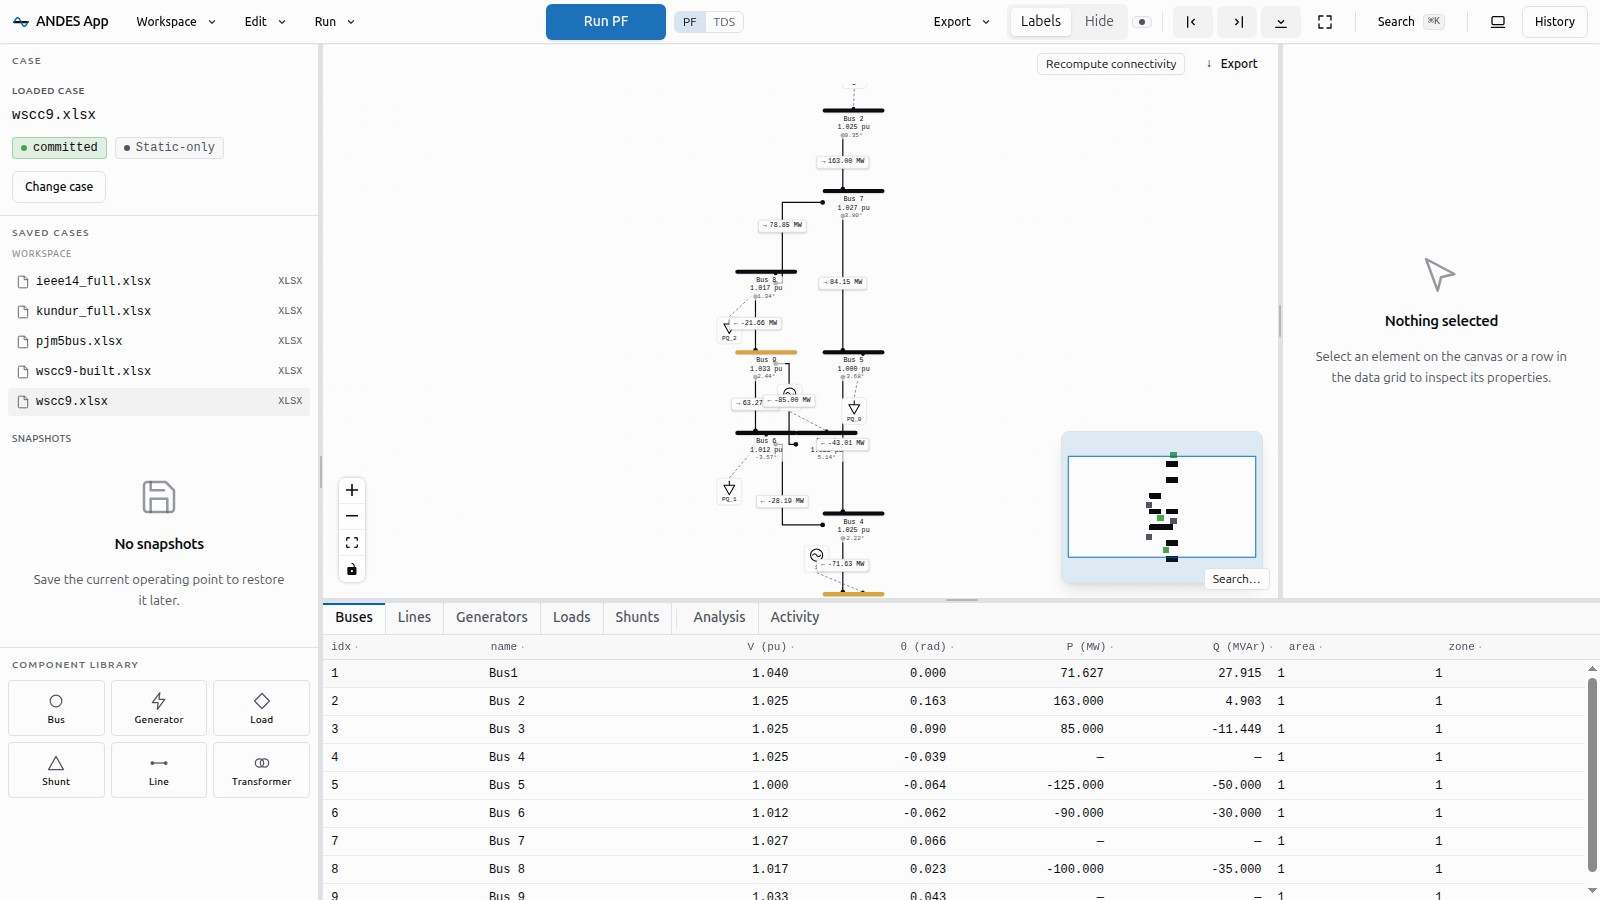
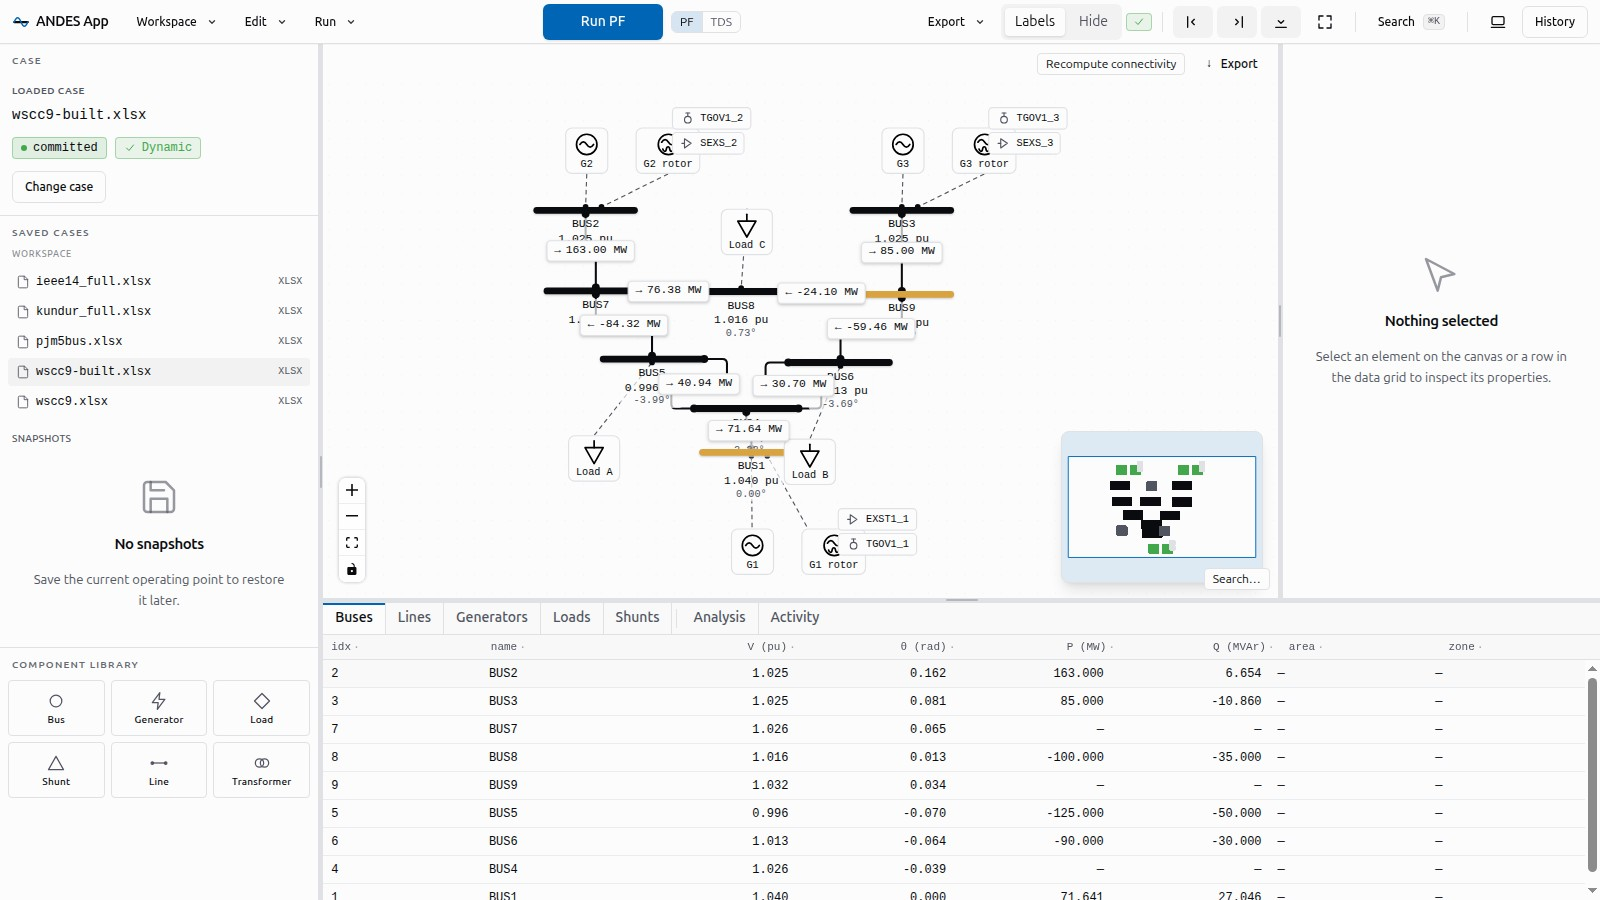
docs: production-ready README with embedded demo video + feature comparison
- Rewrite README around a getting-started-in-minutes flow: clone → install
  server → build UI → warm-cache → serve --open, with the first-run example
  cases called out so there's something to open immediately.
- Embed the showcase demo: an inline GIF (clickable → full MP4) of an agent
  building WSCC 9-bus from scratch and running every analysis, committed
  under docs/ (demo.gif + docs/demo/ieee9-agent-demo.mp4).
- Sharpen the 'why this vs ANDES alone' comparison table and add a grouped
  feature list, project layout, agent/MCP section, and an ANDES
  acknowledgement.
- Refresh the hero screenshot to the current clean one-line layout.
- CHANGELOG: note the demo/README plus this round's SLD + result-chart fixes.

diff --git a/README.md b/README.md
@@ -2,84 +2,106 @@
 
 **An interactive, web-based workbench for [ANDES](https://github.com/CURENT/andes)** — the open-source Python power-system simulator. Build, edit, simulate, and analyze power systems from your browser, with live-streaming time-domain results, an interactive single-line diagram, and a fully scriptable HTTP API designed for both humans and AI agents.
 
-ANDES App is **not a wrapper around the ANDES CLI**. It is a substrate built on the ANDES Python API that adds capabilities native ANDES does not have: interactive model building, live result streaming, session management, undo/redo parameter editing, and a machine-readable API surface for interoperability with other tools and frameworks.
+[![Built on ANDES](https://img.shields.io/badge/built%20on-CURENT%2FANDES-2563eb)](https://github.com/CURENT/andes)
+[![Python 3.12+](https://img.shields.io/badge/python-3.12%2B-3776ab)](https://www.python.org/)
+[![License: MIT](https://img.shields.io/badge/license-MIT-green)](./LICENSE)
+[![Agent-ready](https://img.shields.io/badge/agent--ready-llms.txt%20%2B%20MCP-8b5cf6)](./llms.txt)
+
+ANDES App is **not a wrapper around the ANDES CLI**. It is a substrate built on the ANDES Python API that adds capabilities native ANDES does not have: visual model building, live result streaming, session management, clone-on-write parameter editing with undo/redo, and a machine-readable API surface for interoperability with other tools and AI agents.
 
 ![ANDES App — interactive single-line diagram with a solved power flow](docs/img/hero.jpeg)
 
-## What you can do
+## See it in action
 
-| Capability | ANDES (CLI/notebook) | ANDES App |
+An AI agent builds the WSCC 9-bus system **from scratch through the real UI** — placing every bus, line, transformer, machine, exciter, and governor; laying out the one-line; saving the case to a file and reloading it; then running power flow, a three-phase fault + streaming time-domain simulation, continuation power flow, and eigenvalue analysis.
+
+[![Watch the ANDES App demo — building WSCC 9-bus and running every analysis](docs/img/demo.gif)](docs/demo/ieee9-agent-demo.mp4)
+
+▶ **[Watch the full 2-minute walkthrough (MP4)](docs/demo/ieee9-agent-demo.mp4)** — every step uses the same HTTP API any script or LLM agent can call. You can [record it yourself](#run-the-showcase-demo-yourself).
+
+## Why ANDES App?
+
+ANDES is a powerful simulation engine. ANDES App turns it into an interactive, shareable, scriptable application.
+
+| | ANDES (CLI / notebook) | **ANDES App** |
 |---|---|---|
-| Build a system from scratch | Hand-edit xlsx/raw files | Visual builder: add buses, lines, machines, exciters, governors from the UI |
-| Run power flow / TDS / EIG / CPF / SE | Scripted, batch | One click, non-blocking jobs with progress + cancel |
-| Watch a simulation evolve | Wait, then plot | Live Arrow-IPC streaming into interactive plots + animated SLD overlay |
-| Disturbances | Edit case files | Add faults, breaker toggles, load/parameter changes interactively |
-| Parameter studies | Write loops yourself | Built-in sweeps with per-iteration results and progress |
-| Edit parameters safely | Mutate in place | Clone-on-write editing with undo/redo and diff view |
-| Share/reproduce a study | Zip things manually | One-click reproducibility bundle export/import |
-| Drive it from other tools | Python imports | REST + WebSocket API with OpenAPI schema; usable from curl, Python, MATLAB, or LLM agents |
-| Remote access | — | Serve on your LAN; any browser becomes a client |
+| **Build a system** | Hand-edit `xlsx`/`raw` files | Visual builder — drag buses, lines, machines, exciters, governors onto the canvas |
+| **Run PFlow / TDS / EIG / CPF / SE** | Scripted, batch, blocking | One click; non-blocking jobs with live progress + cancel |
+| **Watch a simulation evolve** | Wait, then plot | Live Apache-Arrow streaming into interactive plots **and** an animated voltage overlay on the diagram |
+| **Add disturbances** | Edit the case file | Faults, breaker toggles, and load/parameter changes added interactively before a run |
+| **Edit parameters safely** | Mutate in place | Clone-on-write editing with **undo/redo** and a diff view |
+| **Visualize the network** | DIY matplotlib | Traditional one-line diagram (busbars, feeders, machines) with per-bus voltage bands |
+| **See the results** | Roll your own | Voltage/angle plots, eigenvalue scatter (zoom/pan), PV nose curves, residual histograms — in a dedicated results view |
+| **Share / reproduce a study** | Zip files manually | One-click reproducibility bundle (case + layout + results) export/import |
+| **Drive it from other tools** | Python imports only | REST + WebSocket API with an OpenAPI schema — usable from curl, Python, MATLAB, or an LLM agent |
+| **Use it from an AI agent** | — | First-class: [`llms.txt`](./llms.txt), worked [examples/](./examples/), and an [MCP server](#for-agents-and-scripts) |
+| **Access remotely** | — | Serve on your LAN; any browser becomes a client |
+
+## Features
+
+- **Visual system builder** — add buses, lines, transformers, generators (static + GENROU), exciters, governors, loads, and shunts from the UI; the diagram lays out automatically and is fully draggable.
+- **Five analyses, one click each** — power flow, time-domain simulation, eigenvalue/small-signal, continuation power flow (PV & QV curves), and state estimation. Each runs as a non-blocking job with progress and cancel.
+- **Live time-domain streaming** — results stream over a WebSocket as Apache Arrow frames into interactive plots while the simulation runs, with a synchronized voltage-band overlay animating on the one-line diagram.
+- **Interactive single-line diagram** — traditional busbar one-line rendering; feeders tap cleanly onto bars; machines/loads sit beside their bus; post-PF voltage and MW/MVAr flow labels; voltage-violation tinting.
+- **Safe, reversible editing** — clone-on-write parameter changes with full undo/redo and a diff view; nothing mutates the loaded case until you commit.
+- **Save / load / reproduce** — write systems back to `xlsx`/`raw`/`json`, reload them, and export a self-contained reproducibility bundle.
+- **Built for automation** — a documented REST + WebSocket API with an OpenAPI schema; everything the UI does, a script or agent can do.
+- **Local-first & private** — runs entirely on your machine, binds to loopback by default, no account, no telemetry.
 
 ## Quick start
 
-Requirements: **Python 3.12+** and **Node 22+ with pnpm** (Node only needed to build the UI once).
+**Requirements:** Python **3.12+**, and Node **22+ with [pnpm](https://pnpm.io/)** (Node is only needed to build the UI once).
 
 ```bash
+# 0. Clone
+git clone https://github.com/Roger-GO/ANDES_App.git
+cd ANDES_App
+
 # 1. Install the server (pulls in ANDES, FastAPI, pyarrow)
-python -m venv .venv && source .venv/bin/activate
+python -m venv .venv && source .venv/bin/activate     # Windows: .venv\Scripts\activate
 pip install -e ./server
 
 # 2. Build the web UI (one time)
 cd web && pnpm install && pnpm build && cd ..
 
-# 3. Warm the ANDES cache (one time, ~30 s; rerun after upgrading ANDES)
+# 3. Warm the ANDES symbolic cache (one time, ~30 s; rerun after upgrading ANDES)
 andes-app warm-cache
 
-# 4. Serve — UI and API on one port
+# 4. Serve — UI and API on one port — and open the browser
 andes-app serve --workspace ~/andes-cases --port 8000 --open
 ```
 
-Open `http://127.0.0.1:8000` — load a case from your workspace (or build one from scratch), run a power flow, add a disturbance, and stream a time-domain simulation. An empty workspace is auto-seeded with IEEE-14, Kundur, and WSCC-9 example cases so there's something to open on first run.
+Then open **`http://127.0.0.1:8000`**. On first run an empty workspace is auto-seeded with **IEEE-14, Kundur, and WSCC-9** example cases, so there's something to open immediately. Load a case (or build one from scratch), run a power flow, add a disturbance, and stream a time-domain simulation.
 
-### Watch an agent build a system end-to-end
+> **Tip:** put your own `.xlsx` / `.raw` / `.dyr` / `.json` cases in the `--workspace` directory and they'll appear in the file picker.
 
-`web/scripts/agent-demo.mjs` records a captioned video of an AI agent driving the real UI: dragging each component onto the canvas to build the WSCC 9-bus system from scratch, laying it out, saving it to a file and reloading it, then running power flow, a fault + streaming time-domain simulation, continuation power flow, and eigenvalue analysis — every step through the same API a script or LLM agent would use.
+## Run the showcase demo yourself
 
-```bash
-andes-app serve --workspace ~/andes-cases --port 18800   # in one terminal
-cd web && node scripts/agent-demo.mjs http://127.0.0.1:18800
-# → demo-video/ieee9-agent-demo.webm
-```
-
-### Development mode
+[`web/scripts/agent-demo.mjs`](web/scripts/agent-demo.mjs) records the captioned video at the top of this README by driving the real UI with Playwright — building WSCC 9-bus from scratch, then running every analysis.
 
 ```bash
-# Terminal 1 — backend
-andes-app serve --workspace ~/andes-cases --port 8000
+# Terminal 1 — serve on a fixed port
+andes-app serve --workspace ~/andes-cases --port 18800
 
-# Terminal 2 — frontend with hot reload
-cd web && VITE_ANDES_PORT=8000 pnpm dev   # → http://localhost:5173
+# Terminal 2 — record (writes demo-video/ieee9-agent-demo.webm)
+cd web && pnpm exec playwright install chromium   # one time
+node scripts/agent-demo.mjs http://127.0.0.1:18800
 ```
-
-### Access from other machines on your network
-
-```bash
-andes-app serve --workspace ~/andes-cases --port 8000 \
-  --bind 0.0.0.0 --allow-origin http://<your-lan-ip>:8000
-```
-
-> **Security note:** ANDES App has no authentication — it binds to `127.0.0.1` (loopback) by default and trusts the local OS user. Binding to a non-loopback address exposes the API (including case-file parsing, which evaluates expressions) to everyone on that network. Only do this on networks you trust. See [SECURITY.md](./SECURITY.md).
 
 ## For agents and scripts
 
-The entire app is driven by a documented HTTP + WebSocket API — everything the UI can do, a script or LLM agent can do.
+The entire app is driven by a documented HTTP + WebSocket API — **everything the UI can do, a script or LLM agent can do.**
 
-- **OpenAPI schema:** `GET /openapi.json` — interactive docs at `/docs` (Swagger) and `/redoc`
-- **[llms.txt](./llms.txt)** — a condensed API map written for LLM consumption: endpoints, workflow ordering, enums, and gotchas
-- **[examples/](./examples/)** — curl walkthroughs and a self-contained Python client
-- **MCP server** — expose sessions, case loading, power flow, TDS, and disturbances as [Model Context Protocol](https://modelcontextprotocol.io) tools: `pip install -e './server[mcp]'`, then `andes-app mcp`
+- **OpenAPI schema:** `GET /openapi.json` — interactive docs at `/docs` (Swagger) and `/redoc`.
+- **[llms.txt](./llms.txt)** — a condensed API map written for LLM consumption: endpoints, workflow ordering, enums, and gotchas.
+- **[examples/](./examples/)** — curl walkthroughs and a self-contained Python client.
+- **MCP server** — expose sessions, case loading, power flow, TDS, and disturbances as [Model Context Protocol](https://modelcontextprotocol.io) tools so assistants like Claude can run simulations directly:
+  ```bash
+  pip install -e './server[mcp]'
+  andes-app mcp --workspace ~/andes-cases
+  ```
 
-Typical programmatic flow:
+A typical programmatic flow:
 
 ```
 POST /api/sessions                         → session_id
@@ -87,8 +109,29 @@ POST /api/sessions/{id}/case               → load a case (xlsx/raw/dyr/json/m)
 POST /api/sessions/{id}/disturbances       → add faults/toggles/alters (pre-setup)
 POST /api/sessions/{id}/pflow              → solve power flow
 POST /api/sessions/{id}/tds                → batch TDS (or stream via WS /api/ws/{id})
-GET  /api/sessions/{id}/operating-point    → bus voltages/angles
+GET  /api/sessions/{id}/operating-point    → bus voltages / angles
 ```
+
+## Development mode
+
+```bash
+# Terminal 1 — backend
+andes-app serve --workspace ~/andes-cases --port 8000
+
+# Terminal 2 — frontend with hot reload
+cd web && VITE_ANDES_PORT=8000 pnpm dev    # → http://localhost:5173
+```
+
+## Network access & security
+
+To reach the app from another machine on your network:
+
+```bash
+andes-app serve --workspace ~/andes-cases --port 8000 \
+  --bind 0.0.0.0 --allow-origin http://<your-lan-ip>:8000
+```
+
+> ⚠️ **Security:** ANDES App has **no authentication**. It binds to `127.0.0.1` (loopback) by default and trusts the local OS user. Binding to a non-loopback address exposes the API — including case-file parsing, which evaluates expressions — to everyone who can reach that interface. Only do this on networks you trust, and never load untrusted case files in that mode. See [SECURITY.md](./SECURITY.md).
 
 ## Architecture
 
@@ -100,13 +143,25 @@ GET  /api/sessions/{id}/operating-point    → bus voltages/angles
 └──────────────┘                     └───────────────────┘                   └──────────────┘
 ```
 
-- `server/` — Python substrate: FastAPI routers, per-session subprocess workers, Apache Arrow IPC streaming, clone-on-write editing
-- `web/` — React 19 + TypeScript UI: interactive SLD (React Flow), uPlot result plots, Radix UI, Tailwind v4, Zustand
-- One `andes.System` per session lives in an isolated subprocess; the API process never blocks on a simulation
+One `andes.System` lives per session in an isolated subprocess, so the API process never blocks on a simulation and a crashed run can't take the server down.
+
+## Project layout
+
+| Path | What's there |
+|---|---|
+| [`server/`](./server) | Python substrate — FastAPI routers, per-session subprocess workers, Arrow streaming, clone-on-write editing, the `andes-app` CLI |
+| [`web/`](./web) | React 19 + TypeScript UI — interactive SLD (React Flow), uPlot result plots, Radix UI, Tailwind v4, Zustand |
+| [`examples/`](./examples) | curl + Python client walkthroughs for the API |
+| [`llms.txt`](./llms.txt) | LLM-oriented API map |
+| [`docs/`](./docs) | images and the demo video |
 
 ## Contributing
 
-PRs welcome — see [CONTRIBUTING.md](./CONTRIBUTING.md) for setup, test commands, and conventions. Conventions for AI coding agents live in [AGENTS.md](./AGENTS.md).
+PRs welcome — see [CONTRIBUTING.md](./CONTRIBUTING.md) for setup, test commands, and conventions. Guidelines for AI coding agents live in [AGENTS.md](./AGENTS.md); changes worth noting are tracked in [CHANGELOG.md](./CHANGELOG.md).
+
+## Acknowledgements
+
+ANDES App is built on top of [**CURENT/ANDES**](https://github.com/CURENT/andes) by Hantao Cui et al. All power-system modeling and numerical simulation is performed by ANDES; this project provides the interactive application layer around it.
 
 ## License
 

diff --git a/CHANGELOG.md b/CHANGELOG.md
@@ -5,6 +5,7 @@ All notable changes to ANDES App are documented here. The format follows [Keep a
 ## [Unreleased]
 
 ### Added
+- Showcase demo: a captioned video of an agent building WSCC 9-bus from scratch through the UI and running every analysis, embedded in a rewritten, production-ready README with a feature comparison against ANDES alone.
 - First-run example cases: an empty workspace is auto-seeded with IEEE-14, Kundur, and WSCC-9.
 - GENROU exposes its full subtransient reactance + time-constant set, with d/q reactance-ordering validation that names the offending value (prevents textbook transient values silently clashing with unset subtransient defaults).
 - Eigenvalue scatter: numeric axis ticks + gridlines, points colored by damping band with a legend, and an "All modes" filter toggle so a well-damped system isn't an empty plot.
@@ -12,6 +13,8 @@ All notable changes to ANDES App are documented here. The format follows [Keep a
 - Branding: logo, favicon, and "ANDES App" wordmark.
 
 ### Fixed
+- Single-line diagram readability: buses render as traditional busbars; branch/feeder taps land on the bar instead of floating off it; each bus's machines and loads sit on the face pointing away from the network (a bottom bus's machine hangs below it, not up through its own feeder) with short, non-crossing stubs; edge flow labels render above bus boxes.
+- Result charts: continuation-power-flow traces now get a distinct colour per bus (single-digit bus names no longer collapse into one band) with a labelled per-λ voltage readout; the eigenvalue scatter uses smaller markers, a larger plot, and a discoverable zoom/pan hint; CPF/EIG/SE charts no longer overflow and clip at the bottom of the full-screen results view.
 - A crashed per-session worker now returns a clean `503` with "reload the case or start a new session" guidance instead of leaving a zombie session that errors on every call; snapshot dill-restore falls back safely instead of crashing the worker.
 - Snapshot/disturbance list and layout-sidecar reads return `200` (empty/null) instead of `404`/`409`, removing browser-console error noise.
 - Run-mode "Add element" panel narrowed so it no longer covers the diagram.